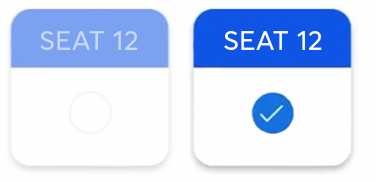
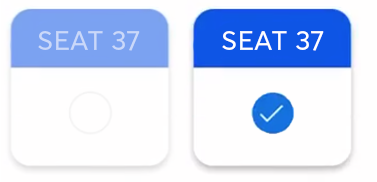
Add files via upload

Changed region(s): [[0.5836, 0.1648, 0.8753, 0.2747], [0.0875, 0.1648, 0.2626, 0.2747], [0.2918, 0.1648, 0.3793, 0.2747]]

diff --git a/index.html b/index.html
@@ -90,7 +90,7 @@
      
 
      <div> 
-        <span class="Seat_Numbr"> Sec 126, Row 2 </span> 
+        <span class="Seat_Numbr"> Sec 342, Row 3 </span> 
         <span class="tkt_icon"><img class="tkt_img" src="tkt_icon.png">2 Tickets</span>
 
     </div>          
@@ -118,7 +118,7 @@
      
 
      <div> 
-        <span class="Seat_Numbr"> Sec 126, Row 2 </span> 
+        <span class="Seat_Numbr"> Sec 342, Row 3 </span> 
         <span class="tkt_icon"><img class="tkt_img" src="tkt_icon.png">1 Ticket</span>        
                  <!-- check box -->
 
@@ -186,15 +186,15 @@
               <div class="ticket-details">
                  <div class="detail">
                      <span class="label">Sec</span>
-                     <span class="value">126</span>
+                     <span class="value">342</span>
                </div>
                 <div class="detail">
                      <span class="label">Row</span>
-                     <span class="value">2</span>
+                     <span class="value">3</span>
                </div>
                <div class="detail">
                      <span class="label">Seat</span>
-                     <span class="value">12 - 13</span>
+                     <span class="value">37 - 38</span>
                </div>
             </div>
 
